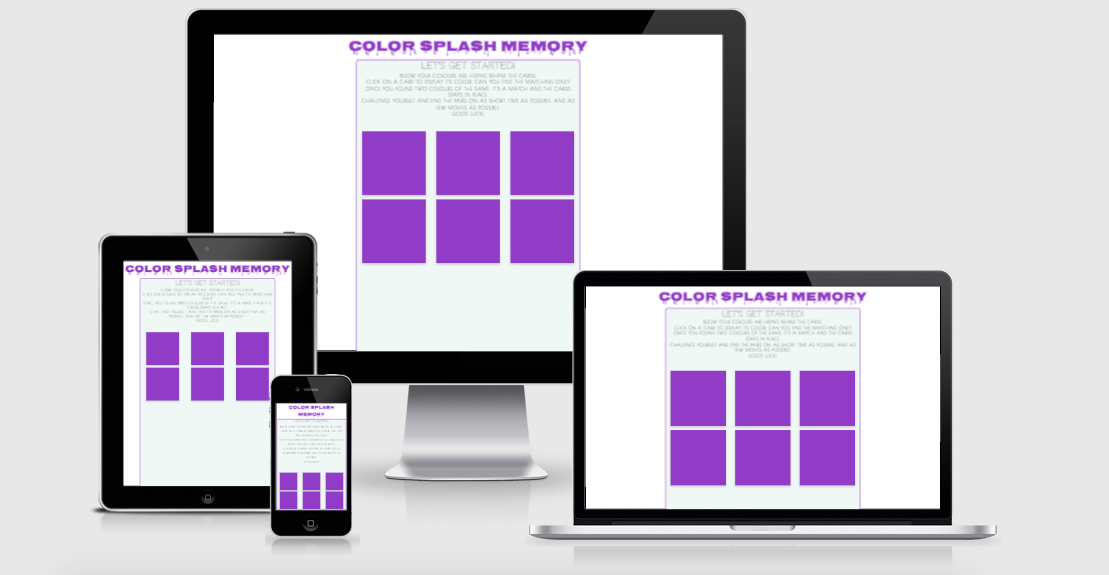
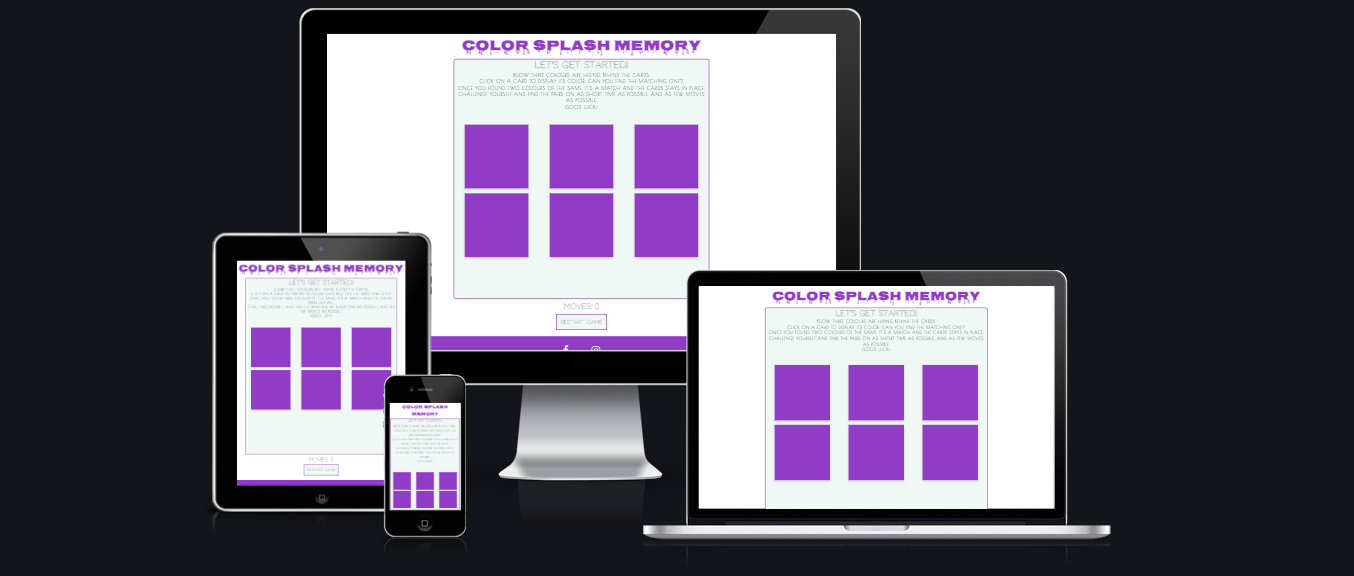
Clean up CSSfile

diff --git a/assets/css/style.css b/assets/css/style.css
@@ -1,3 +1,5 @@
+/* General */
+
 * {
     margin: 0;
     border: none;
@@ -22,20 +24,13 @@ h2 {
     text-align: center;
     font-size: 1.8rem;
     padding-bottom: 5px;
+    padding-top: 10px;
 }
 
 h3 {
     font-size: 1.5rem;
 }
 
-footer {
-    background-color: #8553c0;
-    text-align: center;
-}
-footer {
-    background-color: #8553c0;
-    text-align: center;
-}
 img {
     width: 100px;
 }
@@ -47,8 +42,9 @@ img {
     text-align: center;
 }
 
+/* Game */
 .game-area {
-    height: 750px;
+    height: 700px;
     max-width: 800px;
     background-color: rgb(241, 247, 246);
     border: solid 2px #8553c0;
@@ -66,7 +62,6 @@ img {
     text-align: center;
 }
 
-
 .memory-card {
     height: calc(50% - 4%);
     width: calc(25% - 4%);
@@ -79,7 +74,6 @@ img {
 }
 
 /* W3 SCHOOLS */
-
 .flip-card {
     background-color: transparent;
     width: 200px;
@@ -127,21 +121,21 @@ img {
     object-fit: cover;
 }
 
+/* Button */
 #reset-button {
     height: 50px;
     width: 160px;
     background-color: rgb(241, 247, 246);
     border: solid 2px #8553c0;
-    border-radius: 3%;
-    
+    border-radius: 3%; 
     font-family: 'Codystar', sans-serif;
     font-size: 17px;
     text-transform: uppercase;
 }
-.reset-button:hover {
+#reset-button:hover {
     border: solid 3px #8553c0;
 }
-.reset-button:active {
+#reset-button:active {
     border: solid 3px #8553c0;
 }
 .center {
@@ -149,48 +143,17 @@ img {
     text-align: center;
     margin-bottom: 20px;
 }
-/* W3 SCHOOLS */
 
-#reset-button {
-    height: 50px;
-    width: 160px;
-    background-color: rgb(241, 247, 246);
-    border: solid 2px #8553c0;
-    border-radius: 3%;
-    font-family: 'Codystar', sans-serif;
-    font-size: 17px;
-    text-transform: uppercase;
-}
-
-.reset-button:hover {
-    border: solid 3px #8553c0;
-}
-
-.reset-button:active {
-    border: solid 3px #8553c0;
-}
-
-.center {
-    margin-top: 10px;
-    text-align: center;
-    margin-bottom: 20px;
-}
-
-.result-area {
-    text-align: center;
-    margin-top: 10px;
-}
-.result-area {
-    text-align: center;
-    margin-top: 10px;
-}
-
+/* Footer */
 .fa {
     text-decoration: none;
     color: rgb(241, 247, 246);
     margin: 30px;
 }
-
+footer {
+    background-color: #8553c0;
+    text-align: center;
+}
 
 /* Media Queries 1099px */
 @media screen and (max-width: 1099px) {
@@ -224,7 +187,7 @@ img {
 /* Media Queries 820px */
 @media screen and (max-width: 820px) {
     .game-area {
-        height: 800px;
+        height: 700px;
         max-width: 90%;
     }
 }
@@ -233,7 +196,7 @@ img {
 @media screen and (max-width: 650px) {
     .game-area {
         max-width: 100%;
-        height: 700px;
+        height: 650px;
         }
 }
 
@@ -242,7 +205,6 @@ img {
     #logo {
         font-size: 30px;
     }
-
     h2 {
         font-size: 18px;
     }
@@ -253,19 +215,16 @@ img {
         height: 120px;
         width: 120px;
     }
-
     .flip-card img {
         width: 120px;
         height: 120px;
     }
-
     .flip-card {
         width: 120px;
         height: 120px;
     }
-
     .game-area {
-        height: 600px;
+        height: 550px;
         max-width: 80%;
     }
 }
@@ -284,12 +243,10 @@ img {
         height: 80px;
         width: 80px;
     }
-
     .flip-card img {
         width: 80px;
         height: 80px;
     }
-
     .flip-card {
         width: 80px;
         height: 80px;
@@ -300,16 +257,14 @@ img {
 @media screen and (max-width: 342px) {
     .game-area {
         max-width: 100%;
-        height: 500px
+        height: 450px
     }
     #logo {
         font-size: 20px;
     }
-
     h2 {
         font-size: 15px;
     }
-
     p {
         font-size: 10px;
     }

diff --git a/index.html b/index.html
@@ -88,39 +88,22 @@
                         </div>
                     </div>
                 </div>
-                <!-- <div class="flip-card memory-card" data-image="purple">
-                        <div class="flip-card-inner">
-                            <div class="flip-card-front">
-                            </div>
-                            <div class="flip-card-back">
-                                <img src="assets/images/purple.jpg" alt="Purple Card">
-                            </div>
-                        </div>
-                    </div> -->
-                <!-- <div class="flip-card memory-card" data-image="purple">
-                        <div class="flip-card-inner">
-                            <div class="flip-card-front">
-                            </div>
-                            <div class="flip-card-back">
-                                <img src="assets/images/purple.jpg" alt="Purple Card">
-                            </div>
-                        </div> -->
             </div>
         </div>
         </div>
-        
+
     </section>
     <!--Results Area-->
-    <section class="result-area">
+    <section class="result-area center">
         <h3 class="count-area">Moves: <span id="count-area-moves">0</span></h3>
         <div class="center">
             <button id="reset-button">Restart Game</button>
         </div>
     </section>
     <script src="assets/js/script.js"></script>
-    <footer>    
+    <footer>
         <a href="#" class="fa fa-facebook" aria-label="Facebook"></a>
-        <a href="#" class="fa fa-instagram"aria-label="Instagram"></a>
+        <a href="#" class="fa fa-instagram" aria-label="Instagram"></a>
     </footer>
 
 </body>

diff --git a/README.md b/README.md
@@ -17,9 +17,8 @@ The website is a one-page site with focus on the game itself. It is userfriendly
 
 * Game is reset and starts as blank once a page is loaded.
 * Moves: this section counts every move the user uses to find the pairs. One move is eaqual to two cards being showed.
-<!-- * Result: At the end of the game the results section shows the final results of amounts of moves and the time which the game was completed on. -->
+* Alert: Once game is completed an alert window pops up congratulating the player.
 * Start-again button: Once clicked upon the game is reset and the user can start a new round, where the cards have been shuffled and randomly replocated.
-
 * Footer: Consists of social media tags 
 
 ## Future Implementations
